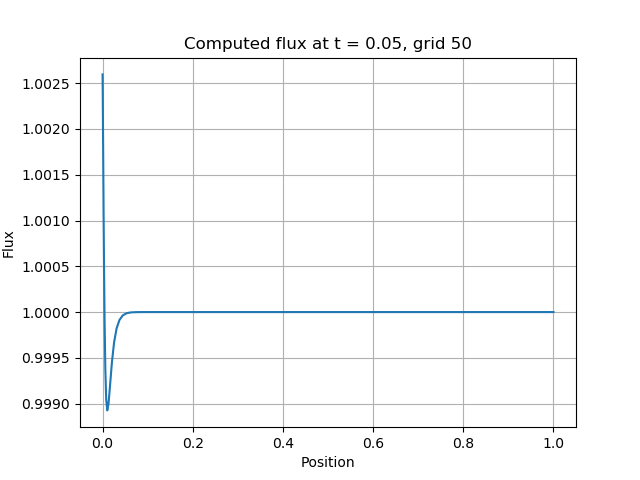
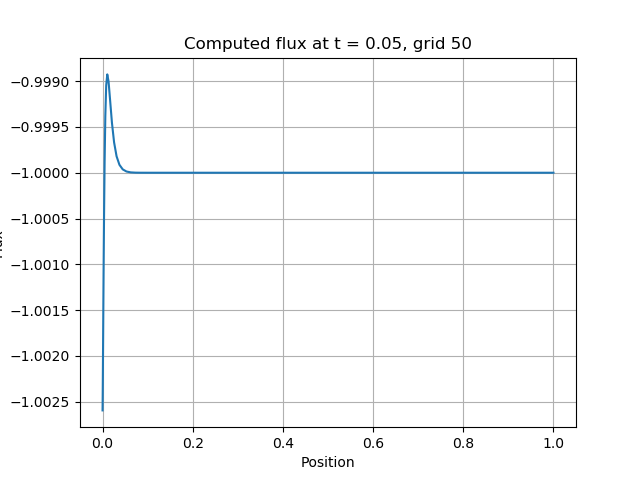
21/04

Changed region(s): [[0.0, 0.4688, 0.9062, 0.875], [0.0312, 0.1562, 0.9062, 0.4688]]

diff --git a/Time dependant solution/exact.py b/Time dependant solution/exact.py
@@ -22,13 +22,13 @@ def c_stationary(x,mu):
   return c
   
 def flux_exact(x,t,mu):
-  f_e = 1
-  f_t = (-1/2)*(-np.sqrt(mu/(np.pi*t))*np.exp(-(x+t)*(x+t)/(4*mu*t)) - np.sqrt(mu/(np.pi*t))*np.exp(-x/mu)*np.exp(-(x-t)*(x-t)/(4*mu*t)) + erfc((x+t)/np.sqrt(4*mu*t)))
+  f_e = -1
+  f_t = (1/2)*(-np.sqrt(mu/(np.pi*t))*np.exp(-(x+t)*(x+t)/(4*mu*t)) - np.sqrt(mu/(np.pi*t))*np.exp(-x/mu)*np.exp(-(x-t)*(x-t)/(4*mu*t)) + erfc((x+t)/np.sqrt(4*mu*t)))
   f = f_e + f_t
   return f
 
 def flux_stationary(x,mu):
-  f = np.exp(x-x)
+  f = -np.exp(x-x)
   return f
 
 def flux_surf(t,mu):
@@ -44,8 +44,8 @@ te = np.linspace(0.0,0.05,1000)
 fig = plt.figure ( )
 ax = plt.subplot ( 111 )
 plt.plot(te,flux_surf(te,mu), label = 'x = 0.0')
-plt.plot(te,flux_exact(x1,te,mu), label = 'x = %.3f' %x1)
-plt.plot(te,flux_exact(x2,te,mu), label = 'x = %.2f' %x2)
+plt.plot(te,-flux_exact(x1,te,mu), label = 'x = %.3f' %x1)
+plt.plot(te,-flux_exact(x2,te,mu), label = 'x = %.2f' %x2)
 ax.legend ( )
 plt.xlabel('Time')
 plt.ylabel('Flux')

diff --git a/Time dependant solution/tDependant2.py b/Time dependant solution/tDependant2.py
@@ -50,8 +50,8 @@ def boundary ( x ):
   value = x[0] < DOLFIN_EPS or 1.0 - DOLFIN_EPS < x[0]
   return value
   
-f = Expression("x[0]*x[0]", degree = 10)
-bc = DirichletBC (V, f, boundary)
+g = Expression('x[0]', degree = 10)
+bc = DirichletBC (V, g, boundary)
 
 #6. Solve
 t = 0
@@ -65,12 +65,12 @@ flux_2 = [None]*(m+1)
 
 while t<T:
   solve( F == 0 , u, bc)
-  flux = project(mu*u.dx(0)+u,FunctionSpace(mesh, 'CG', 2))
+  flux = project(-mu*u.dx(0)-u,V)
 
   u_n.assign(u)
-  flux_0[i] = flux(x0)
-  flux_1[i] = flux(x1)
-  flux_2[i] = flux(x2)
+  flux_0[i] = -flux(x0)
+  flux_1[i] = -flux(x1)
+  flux_2[i] = -flux(x2)
   i += 1
   t += dt
   
@@ -114,6 +114,7 @@ plt.xlabel('Time')
 plt.ylabel('Flux')
 ax.grid ( True )
 plt.title ( 'Flux in surface' )
+plt.ylim(0.75,6.5)
 filename = ( 'Flux_surf_grid%d.png' % ( n ) )
 plt.savefig ( filename )
 print ( '  Graphics saved as "%s"' % ( filename ) )

diff --git a/Variable Mesh/nonConstantMesh.py b/Variable Mesh/nonConstantMesh.py
@@ -19,5 +19,19 @@ plot (mesh)
 filename = ('Mesh2-%d x %d' %(a,b))
 plt.title('Transformation y=x**2')
 plt.savefig(filename)
-plt.show()
+plt.close()
 
+
+def mesh(n):
+  m = UnitIntervalMesh(n)
+  x = m.coordinates()
+#  x[:] = x[:]**2
+  return m
+
+N = 100
+my_mesh = mesh(N)
+plot(my_mesh)
+filename = 'UniformMesh%d' %N
+plt.title('Uniform mesh, grid %d' %N)
+plt.savefig(filename)
+plt.close()
